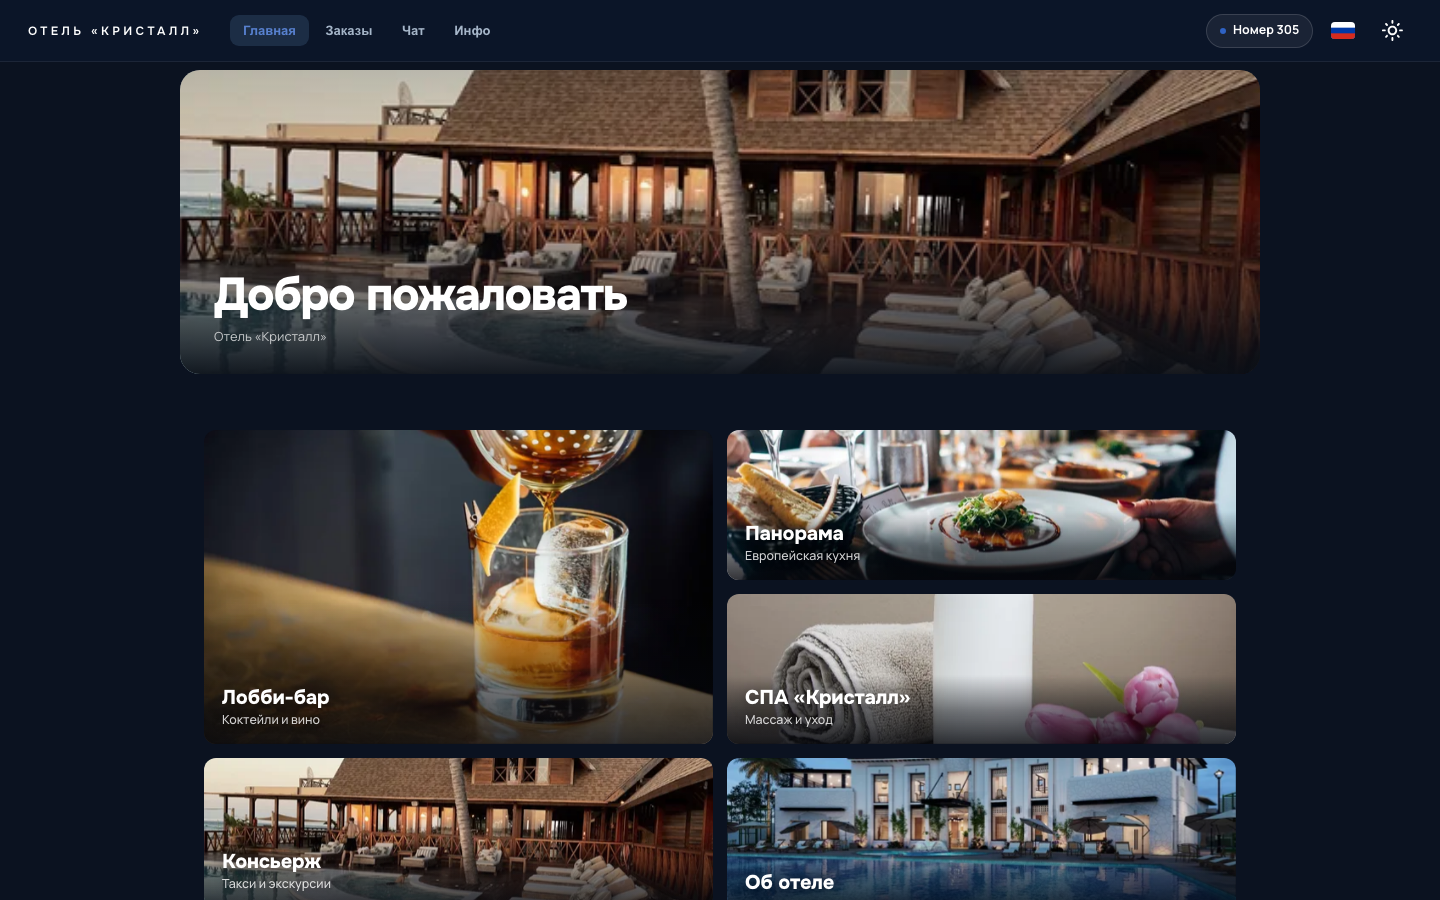
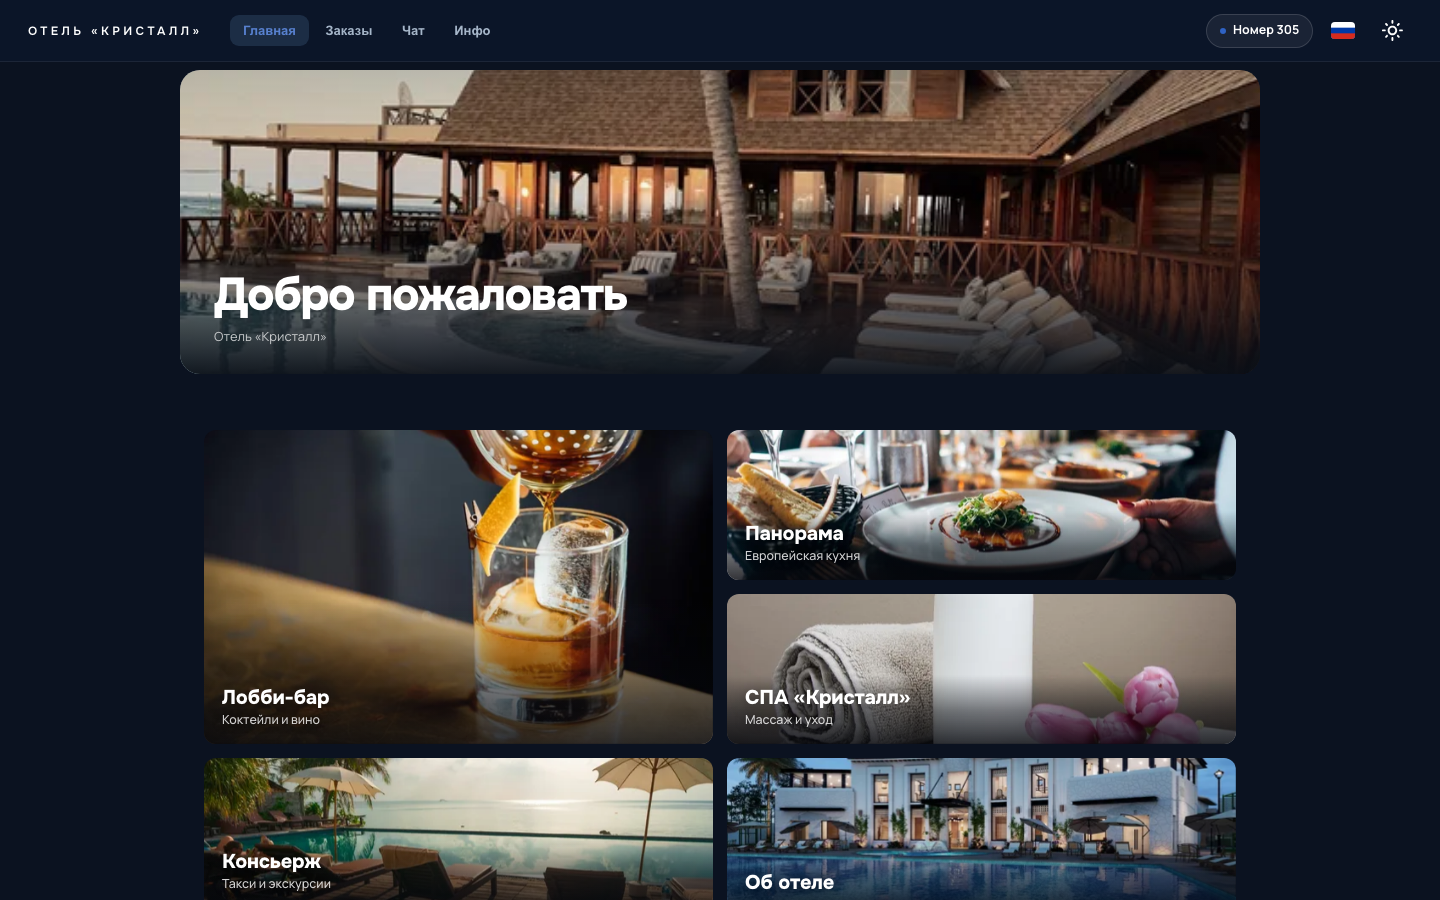
FIX: свой кадр консьержу, отчёт прогона

Changed region(s): [[0.125, 0.84, 0.5, 1.0]]

diff --git a/backend/apps/media/seed_photos.py b/backend/apps/media/seed_photos.py
@@ -89,7 +89,7 @@ PHOTOS: dict[str, tuple[str, str, str]] = {
     "venue-kitchen": ("1414235077428-338989a2e8c0", "Jason Leung", "Ресторан «Панорама»"),
     "venue-bar": ("1470337458703-46ad1756a187", "Adam Jaime", "Лобби-бар"),
     "venue-spa": ("1540555700478-4be289fbecef", "Roberto Nickson", "СПА"),
-    "venue-concierge": ("1566073771259-6a8506099945", "Marten Bjork", "Консьерж"),
+    "venue-concierge": ("1582719508461-905c673771fd", "Sasha Kaunas", "Консьерж"),
     "venue-housekeeping": ("1631049307264-da0ec9d70304", "Vojtech Bruzek", "Хозслужба"),
     "venue-reception": ("1551882547-ff40c63fe5fa", "Jean-Philippe Delberghe", "Ресепшен"),
     "venue-terrace": ("1533777419517-3e4017e2e15a", "Toa Heftiba", "Терраса"),

diff --git a/docs/design/fix-pre-r7-report.md b/docs/design/fix-pre-r7-report.md
@@ -1,0 +1,111 @@
+# Отчёт FIX (пред-R7) — баги, мусор данных, структура
+
+Ветка `fix/pre-r7` (от `r6/platform-admin`). Базис: 588 backend / 59 E2E.
+Основание — `docs/design/frontend-audit.md`: чинится то, что там помечено
+[БАГ] и [СТРУКТУРА]. Стиль, тёмный лоск, светлая тема и доведение темы до
+CMS/трекера (корни 1 и 3 аудита) осознанно НЕ трогались — это R7.
+
+## Как закрыт корень протечек
+
+Три прогона подряд ловили одну и ту же болезнь в разных обличьях: R5 — минимум
+заказа, оставленный упавшим тестом; R6 — тестовые отели и сервисы; здесь —
+бренд, категории, позиции и переписка. Общее у них одно: **тест менял общий
+стенд и не возвращал его**.
+
+**Бренд.** `brand.spec.ts` «восстанавливал» тему применением ЧУЖОГО пресета
+`evening_concierge`. Это не восстановление, а подмена: пресет несёт свой фон и
+свою гарнитуру, поэтому каждый полный прогон уносил обложку отеля и менял
+заголовочный шрифт на Cormorant Garamond. Сид досевает обложку только с
+`--force`, поэтому дрейф был необратимым — и накапливался месяцами.
+
+Теперь тест снимает СНИМОК настоящих токенов до себя и кладёт его обратно
+целиком. Для этого понадобилась новая возможность: `PUT /cms/brand`
+(замена набора целиком) рядом с существующим `PATCH` (deep-merge). Разница
+принципиальна: **merge не умеет убрать ключ, а значит не умеет откатить** —
+снимок наложился бы поверх, и всё лишнее (загруженная подложка, добавленный
+шрифт) осталось бы. На это стоит отдельный тест, который сравнивает поведение
+merge и replace на одном и том же снимке.
+
+С моделью пресетов не конфликтует: `apply-preset` остаётся «начать с чистого
+набора из библиотеки», `PUT` — «поставить ровно эти токены». Логотипы, как и
+при пресете, переживают замену: они принадлежат отелю, а не набору цветов.
+
+**Данные.** Уборка стенда (R6) расширена на позиции; переписка убирается
+командой `clean_test_residue`. Команда, а не ручка API, — осознанно: удаление
+сообщений гостя было бы модерацией, которой в продукте нет, и заводить её ради
+тестов нельзя.
+
+## Что починено
+
+| # | Что было | Что стало |
+|---|---|---|
+| 1 | Тест бренда необратимо портил тему демо-отеля | Снимок и возврат через `PUT /cms/brand`; бренд переживает свой же прогон |
+| 2 | 25 тест-категорий и 25 позиций внутри бара, 27 сообщений «вопрос-ms…» в чате гостя | Убраны командой с явным правилом; teardown покрывает позиции и чат |
+| 3 | Чип «Номер 305» рисовали двое: шелл и шапка героя | Один владелец — шелл; на телефоне чип один |
+| 4 | Выхода из отеля не было вовсе (механизм в провайдере существовал, но его никто не звал) | Меню на чипе номера: «Выйти из отеля» → экран входа |
+| 5 | Такси — фото склада; инфо — стакан из бара; у бара пустое меню | Верные снимки; у бара своя карта из трёх коктейлей с фото |
+| 6 | «Состав» дублировал описание позиции | Не показываем, если это тот же текст; сид перестал копировать |
+| 7 | Категории «липли» под верхнюю строку и уезжали из виду | Липнут под неё: отступ равен высоте строки на широком экране |
+| 8 | На телефоне: в CMS панель съедала 246 из 390 px, в админке навигации не было вовсе | Обе уезжают в шторку по кнопке |
+| 9 | Карточка трекера — 5–6 равнозначных кнопок | Одно главное действие + «ещё»; высота карточки упала примерно вдвое |
+
+## Найдено по дороге (не заказывалось)
+
+1. **Кэш сид-фото был назван по КОДУ, а не по снимку.** Меняешь id в манифесте —
+   на диске лежит прежний файл под тем же именем, и сид продолжает ставить
+   старую картинку. Ровно поэтому «Такси» много релизов оставалось складом,
+   хотя в манифесте уже правили. Имя файла теперь содержит идентификатор
+   снимка; на это есть тест.
+2. **У «Лобби-бара» не было своего меню.** Заведение стояло на парадной с
+   подписью «Коктейли и вино» и пустым каталогом — всё, что там показывалось,
+   приносили автотесты. Заведено три настоящих позиции с фотографиями.
+3. **`_attach_image` игнорирует переданный код** и всегда берёт ключ манифеста
+   по коду позиции. Я на этом попался: третий коктейль остался с
+   паттерн-заглушкой. Дал ему свой снимок и своё имя, чтобы кадр и название не
+   спорили.
+
+## Честные отклонения
+
+1. **17 сервисов из R6 остались выключенными, а не удалёнными** — на них висят
+   заказы. Стоп-guard прогона это прямо предписывает, и команда уборки
+   реализует то же правило в коде: позицию со ссылкой из заказа она НИКОГДА не
+   удаляет, только выключает. Удалить — значит порвать чек, который отель уже
+   отдал гостю.
+2. **Переписку убирает команда стенда, а не teardown через API.** Ручки
+   удаления сообщений в продукте нет и, на мой взгляд, не должно быть ради
+   тестов. Teardown зовёт команду через `docker compose exec`; нет докера под
+   рукой — шаг молча пропускается, и это отмечено в коде.
+3. **Обрезанные счётчики вкладок и селектор сервиса на телефоне** (находка Т4
+   аудита) НЕ чинились: в перечень этого прогона они не входят. Остаются на R7
+   вместе с остальной компоновкой трекера.
+4. **Семантика `--force` у сида не менялась.** Дрейф лечится тем, что тесты
+   больше не портят бренд; делать полный пересев на каждом старте — менять
+   поведение сида ради симптома, которого больше нет.
+5. **Мобильная навигация сделана функционально, без стиля.** Шторка CMS
+   светлая, шторка админки тёмная — ровно как их поверхности сегодня. Свести к
+   одному виду — задача R7.
+
+## СТОП-точки
+
+1. **«Чистка не может надёжно отличить тест-данные от реальных»** — не
+   сработала, потому что правило задано узко и названо в коде: суффикс
+   `-ms<base36>`, который порождают сами спеки (`Date.now().toString(36)`), с
+   якорем на конец имени. Команда по умолчанию ничего не удаляет и лишь
+   печатает список; удаление включается флагом.
+2. **«Восстановление бренда конфликтует с моделью пресетов»** — не сработала:
+   `PUT` не подменяет `apply-preset`, у них разный смысл (см. выше).
+3. **«Что-то с привязанными заказами — не удалять, только скрыть»** —
+   сработала и соблюдена: 20 из 25 тест-позиций держали строки заказов и были
+   выключены, а не удалены.
+
+## Проверка
+
+- **Backend:** новые сторожа — замена токенов целиком против merge (2),
+  сохранение логотипов при замене, имя кэша со снимком, наличие карты у бара.
+- **E2E:** новые — выход гостя из отеля и единственность чипа номера (2),
+  мобильная навигация CMS и админки (2). Адаптированы спеки трекера: переход,
+  ставший второстепенным, открывается через меню (общий помощник
+  `moveOrderTo`).
+- **i18n:** новые строки на ru/en/ar/zh (выход из отеля, «открыть меню», «ещё
+  действия»).
+- **Фронт:** `tsc --noEmit` и `vite build` чисто.
